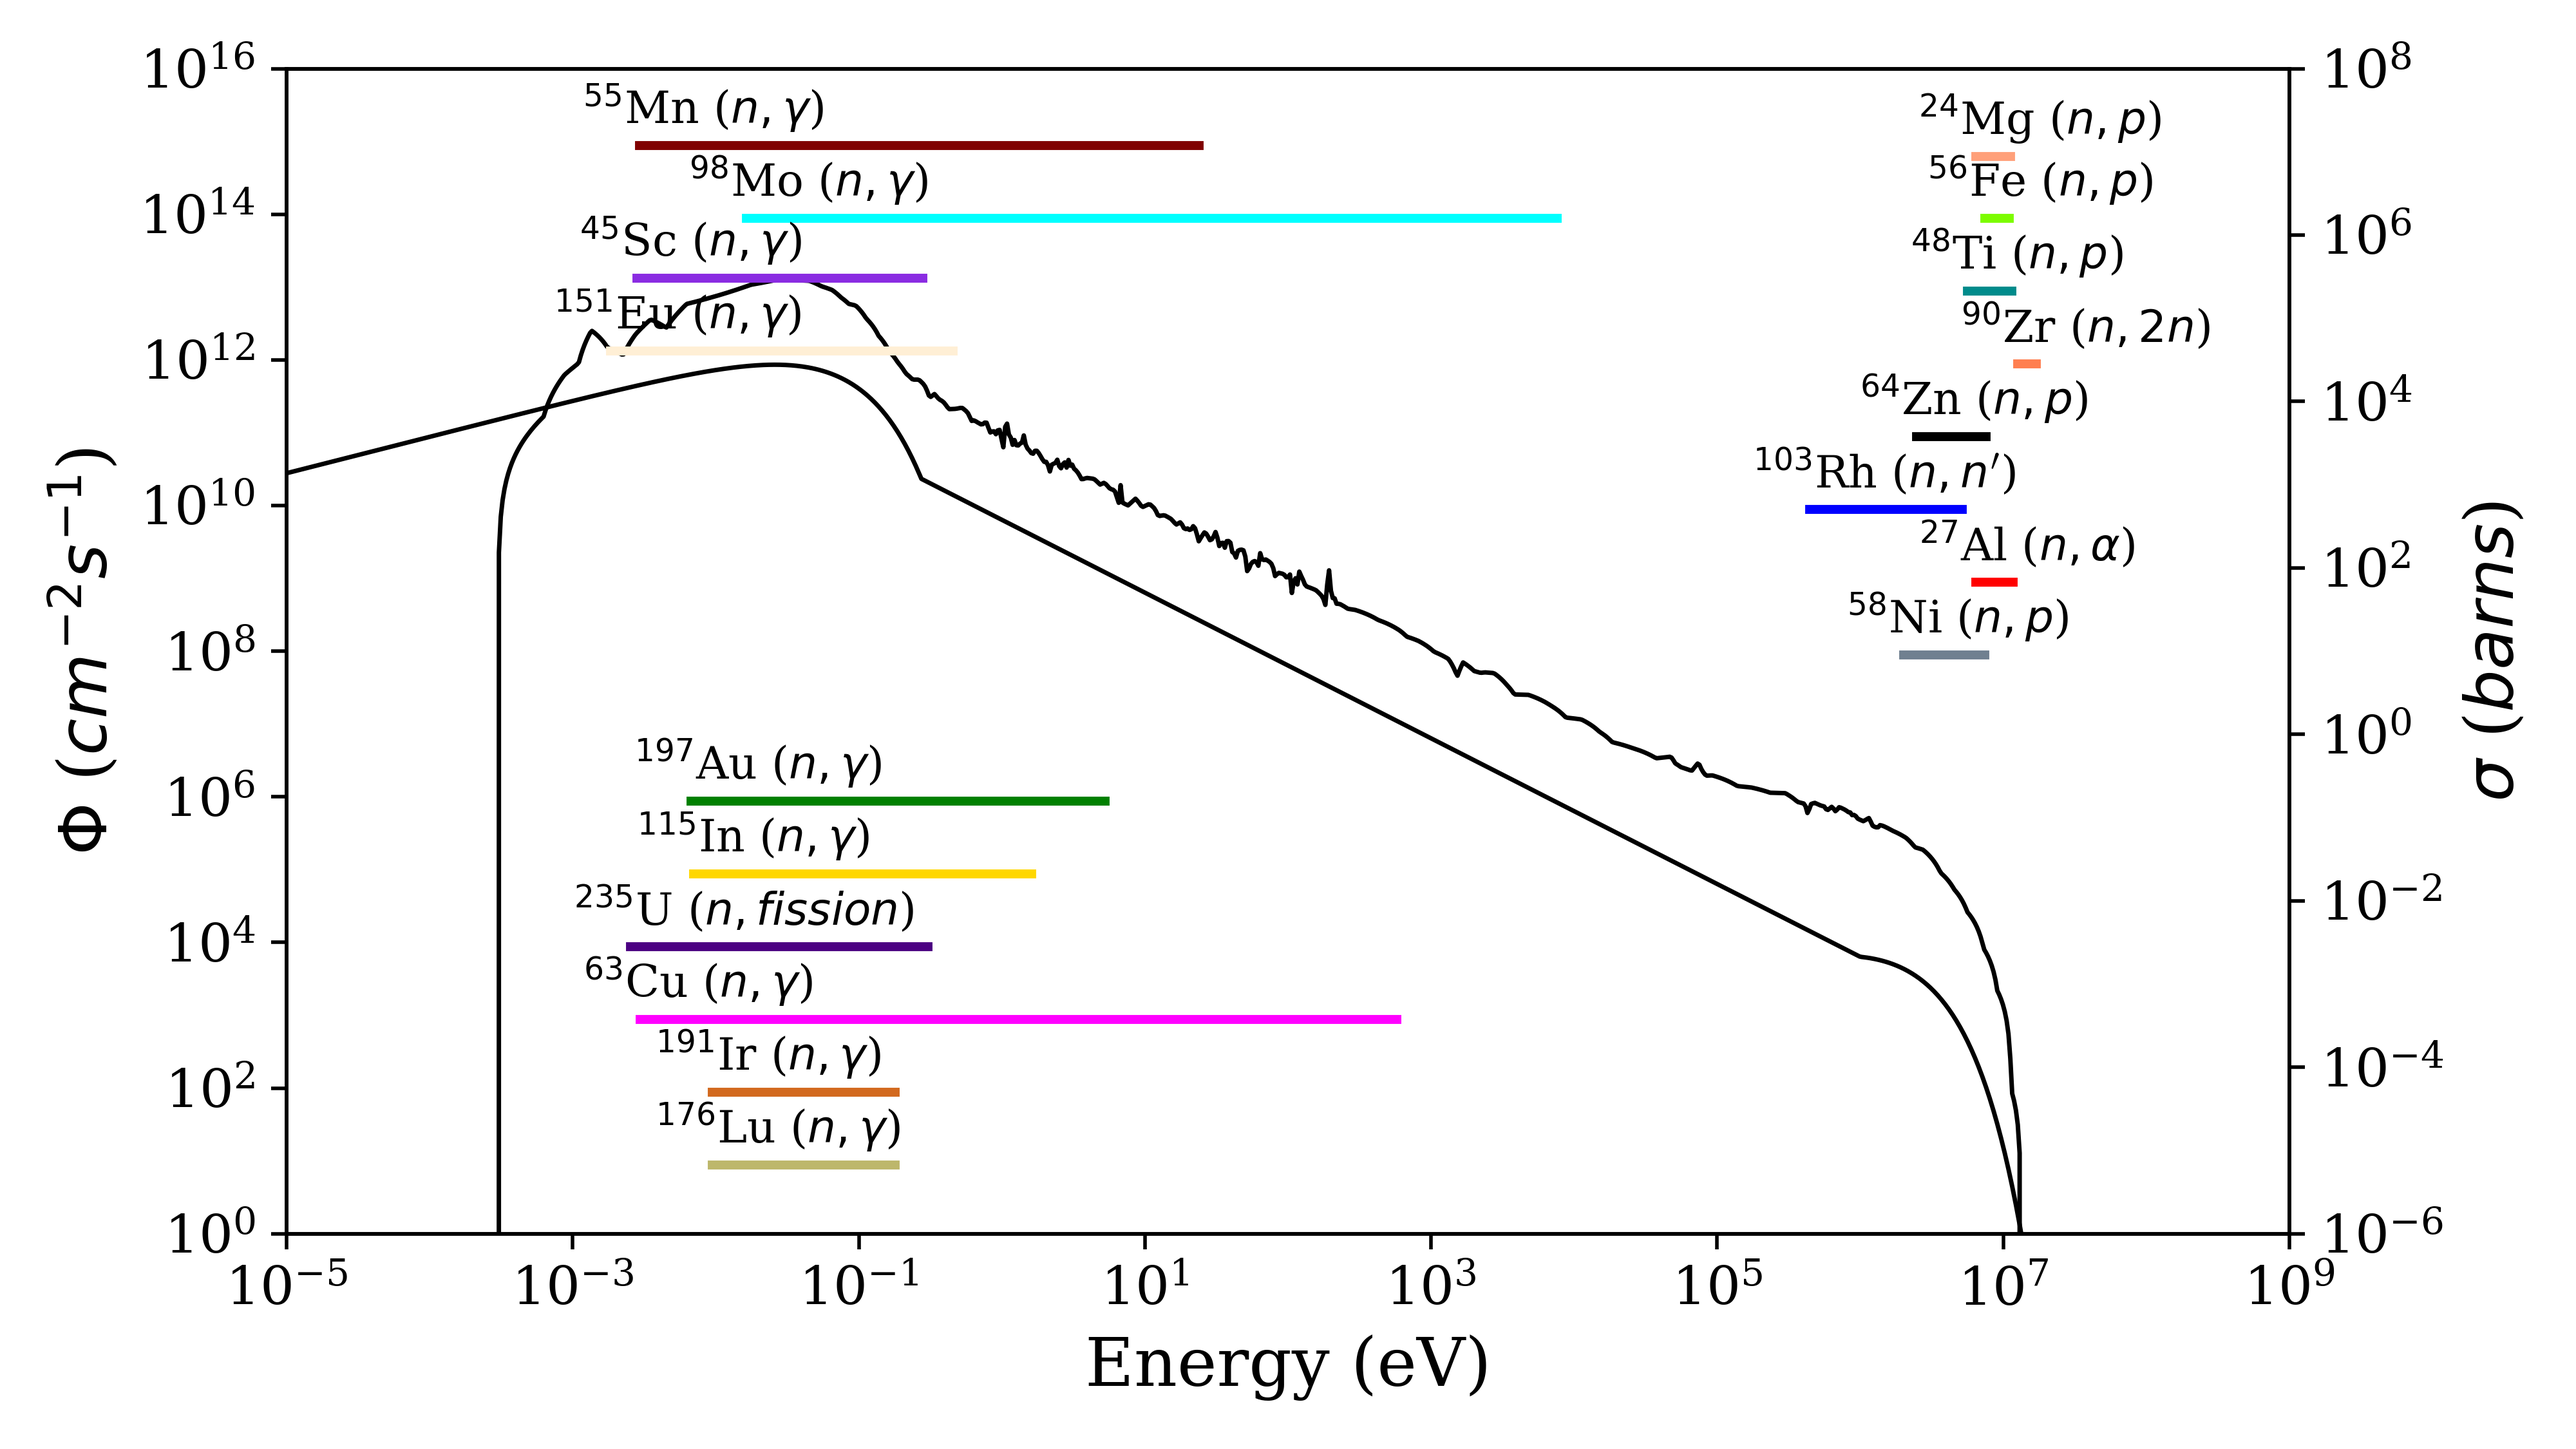
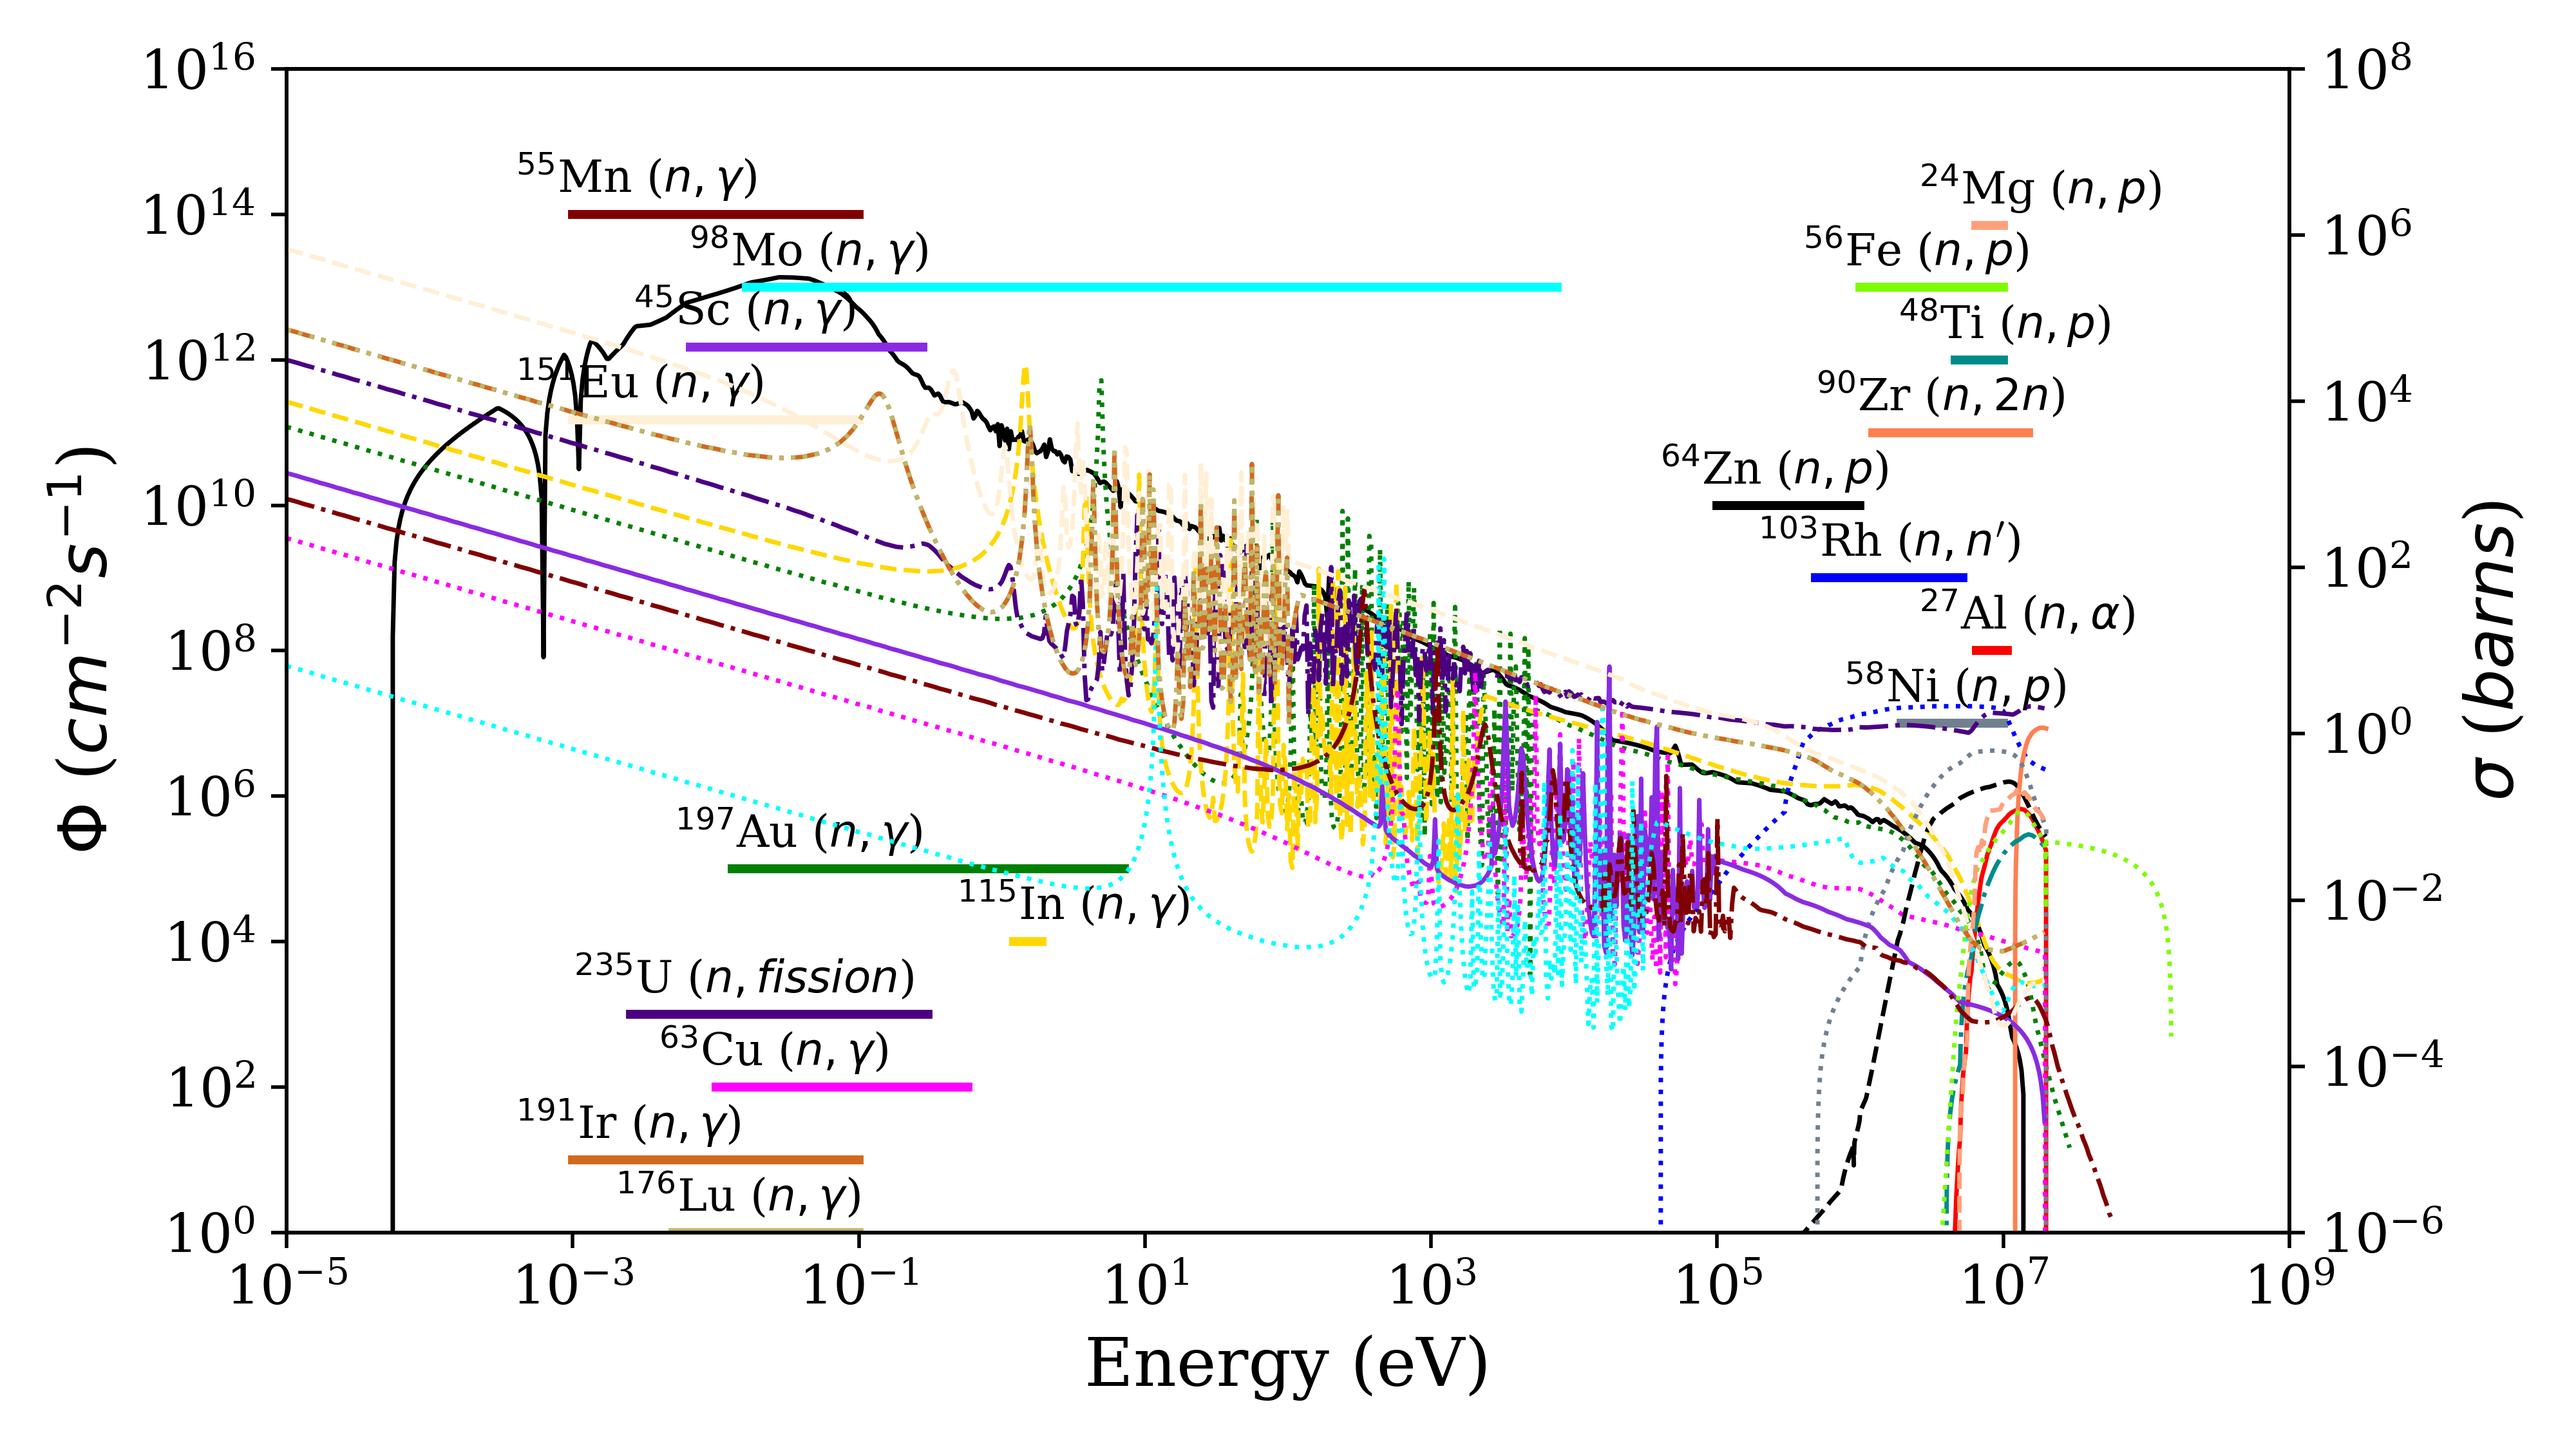
plot changes

diff --git a/source/amalgamated_plot.py b/source/amalgamated_plot.py
@@ -69,9 +69,10 @@ colors = ['green', 'gold', 'red', 'blue', 'indigo', 'fuchsia', 'black',
           'lightsalmon', 'maroon', 'cyan','papayawhip', 'chocolate',
           'darkkhaki']
 linestyles = [':', '--', '-', ':', '-.', ':','--', '-',':','-.','-',':','--',
-              '-.',':','--','-.']
+              '-.',':','--','-.',':']
+scaling_factor = 1e12
 heights = np.array([1e-7, 1e-8, 1e-4, 1e-3, 1e-9, 1e-10,1e-2,1e-1,1e-5,1,
-                    1.5,10,70,100,10,1.5e-1,1e-11,1e-12])
+                    1.5,10,70,100,10,1.5e-1,1e-11,1e-12]) * scaling_factor
 
 for i, reaction in enumerate(reactions):
     # region
